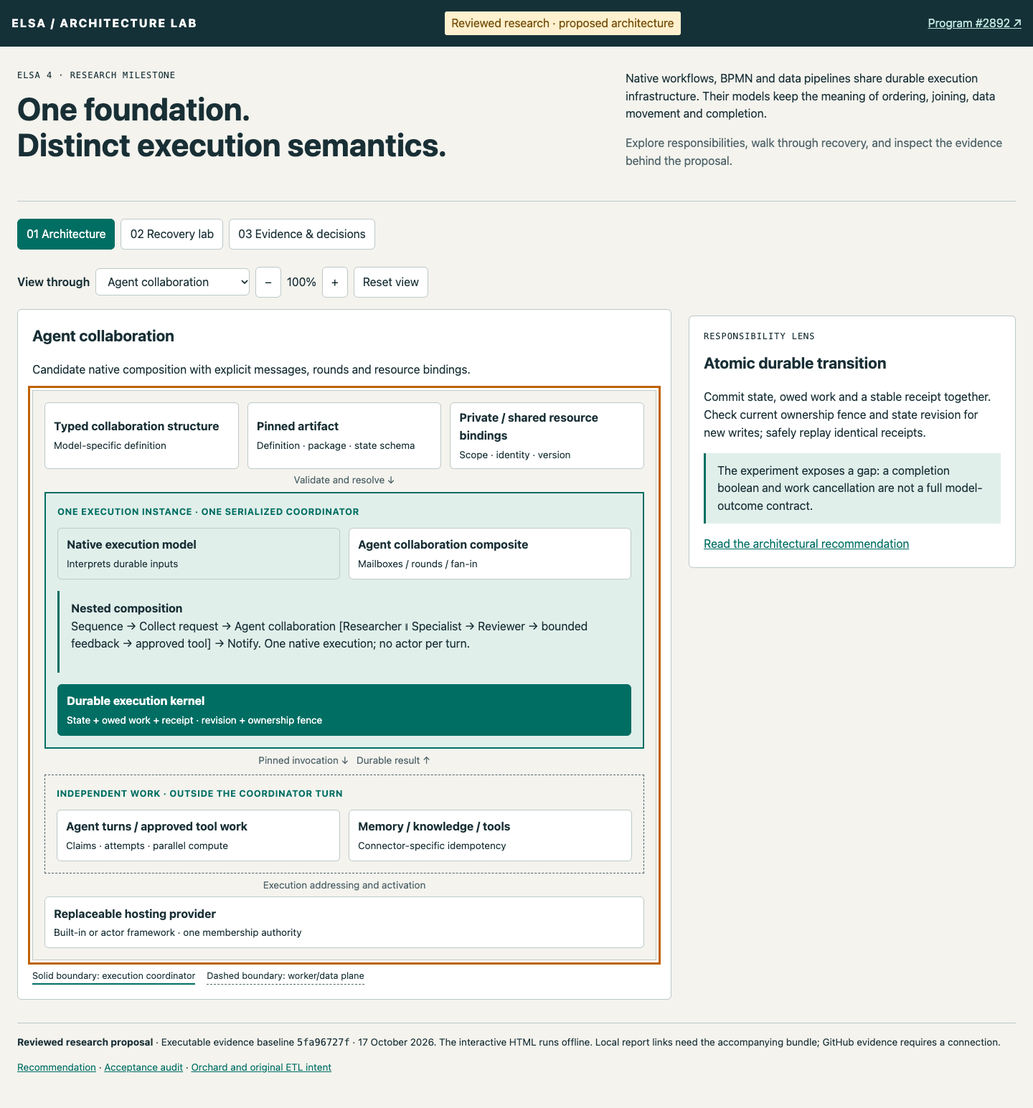
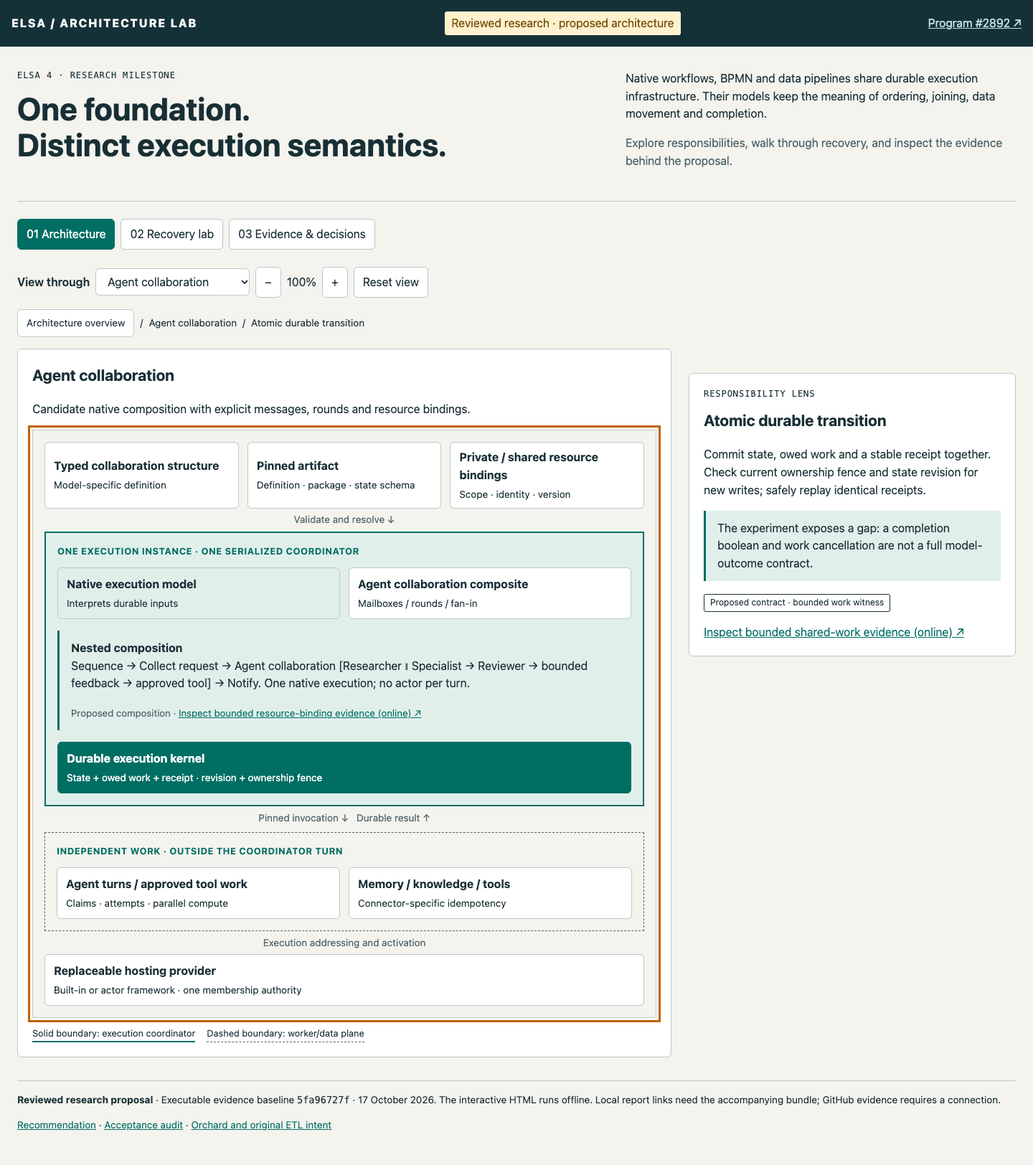
Complete architecture explorer navigation and normal execution walkthrough

diff --git a/docs/reports/unified-execution/presentation/index.html b/docs/reports/unified-execution/presentation/index.html
@@ -3,7 +3,7 @@
 <head><meta charset="utf-8"><meta name="viewport" content="width=device-width,initial-scale=1">
 <title>Elsa 4 · One foundation, distinct semantics</title>
 <style>
-:root{--paper:#f4f3ee;--ink:#182f35;--muted:#506469;--line:#bdc9c8;--surface:#fff;--accent:#006e63;--soft:#e1efeb;--warn:#77500b;--warm:#fff1cf;--dark:#153138;--radius:6px;--space:1rem}*{box-sizing:border-box}body{margin:0;background:var(--paper);color:var(--ink);font:16px/1.55 system-ui,-apple-system,sans-serif}a{color:var(--accent)}button,select,input{font:inherit;max-width:100%}button,select{border:1px solid var(--line);background:var(--surface);color:var(--ink);padding:.5rem .75rem;border-radius:var(--radius)}button{cursor:pointer}button:hover{background:var(--soft)}button[aria-pressed=true],button.primary{background:var(--accent);border-color:var(--accent);color:white}button:disabled{opacity:.45;cursor:default}:focus-visible{outline:3px solid #be6200;outline-offset:3px}h1,h2,h3,p{margin-top:0}h1{font-size:clamp(1.7rem,3.5vw,2.75rem);line-height:1.15;max-width:24ch}h2{font-size:1.35rem}h3{font-size:1rem}small,.muted{color:var(--muted)}.skip{position:absolute;left:1rem;top:-5rem;background:white;padding:.5rem;z-index:9}.skip:focus{top:1rem}.mast{background:var(--dark);color:#fff;padding:1rem max(1rem,calc((100vw - 1440px)/2));display:flex;align-items:center;gap:1rem;justify-content:space-between}.mast a{color:#bde4db}.brand{font-weight:750;letter-spacing:.12em}.tag{font:12px/1.4 ui-monospace,monospace;letter-spacing:.08em;text-transform:uppercase}.draft{background:var(--warm);color:var(--warn);padding:.25rem .6rem;border-radius:3px}main{max-width:1440px;margin:auto;padding:2rem 1.5rem}header.intro{display:grid;grid-template-columns:1.5fr 1fr;gap:2rem;border-bottom:1px solid var(--line);padding-bottom:1.5rem;margin-bottom:1.5rem}.intro p{max-width:62ch}.tabs,.toolbar{display:flex;flex-wrap:wrap;gap:.5rem;align-items:center}.tabs{margin-bottom:1.5rem}.panel{display:none}.panel.active{display:block}.split{display:grid;grid-template-columns:minmax(0,2fr) minmax(260px,1fr);gap:1.5rem}.sheet{min-width:0;background:var(--surface);border:1px solid var(--line);border-radius:var(--radius);padding:1.25rem}.toolbar{margin-bottom:1rem}.toolbar label{font-weight:600}.diagram-scroll{overflow:auto;border:1px solid var(--line);background:var(--paper);padding:1rem}.diagram{min-width:630px;transform-origin:top left}.model-row{display:grid;grid-template-columns:repeat(3,1fr);gap:.75rem}.node{text-align:left;display:block;width:100%;min-height:4.5rem}.node strong,.node span{display:block}.node span{font-size:.85rem;margin-top:.25rem}.arrow{text-align:center;color:var(--muted);padding:.35rem;font-size:.85rem}.actor{border:2px solid var(--accent);padding:1rem;background:var(--soft)}.boundary{font-size:.8rem;letter-spacing:.04em;font-weight:700;color:var(--accent);margin-bottom:.75rem}.inside{display:grid;grid-template-columns:1fr 1fr;gap:.75rem}.kernel{margin-top:.75rem}.worker-row{display:grid;grid-template-columns:1fr 1fr;gap:.75rem}.outside{border:1px dashed var(--muted);padding:1rem;margin-top:.25rem}.legend{display:flex;gap:1rem;flex-wrap:wrap;margin-top:.75rem;font-size:.8rem}.line-key{border-bottom:2px solid var(--accent)}.dash-key{border-bottom:1px dashed var(--muted)}.detail{position:sticky;top:1rem;align-self:start}.detail ul{padding-left:1.2rem}.note{border-left:3px solid var(--accent);padding:.75rem 1rem;background:var(--soft);margin:1rem 0}.caution{border-left-color:var(--warn);background:var(--warm)}.pill{display:inline-block;font-size:.75rem;padding:.15rem .5rem;border:1px solid currentColor;border-radius:3px}.sim-grid{display:grid;grid-template-columns:1fr 1fr;gap:1rem;margin:1rem 0}.metric{padding:1rem;border:1px solid var(--line)}.metric span{display:block;font:1.15rem ui-monospace,monospace;margin-top:.5rem}.timeline{padding-left:1.5rem}.timeline li{padding:.5rem;border-left:2px solid var(--line);margin-bottom:.3rem}.timeline li.current{border-left-color:var(--accent);background:var(--soft);font-weight:650}.timeline li.future{color:var(--muted)}table{width:100%;border-collapse:collapse}th,td{text-align:left;vertical-align:top;border-bottom:1px solid var(--line);padding:.75rem}th{font-size:.8rem;text-transform:uppercase;letter-spacing:.04em}.table-wrap{overflow:auto}footer{border-top:1px solid var(--line);margin-top:2rem;padding-top:1rem;font-size:.85rem}.hidden{display:none!important}details{border-bottom:1px solid var(--line);padding:1rem 0}summary{cursor:pointer;font-weight:650}.full-width{grid-column:1/-1}@media(max-width:800px){header.intro,.split{grid-template-columns:minmax(0,1fr)}.detail{position:static}.mast{flex-wrap:wrap}main{padding:1rem}.sim-grid{grid-template-columns:1fr}.toolbar{align-items:flex-start}}@media(prefers-reduced-motion:reduce){*{scroll-behavior:auto!important;transition:none!important;animation:none!important}}@media print{.panel{display:block}.tabs,.toolbar{display:none}.split{display:block}.detail{position:static}.diagram-scroll{overflow:visible}.sheet{break-inside:avoid}body{background:white}}
+:root{--paper:#f4f3ee;--ink:#182f35;--muted:#506469;--line:#bdc9c8;--surface:#fff;--accent:#006e63;--soft:#e1efeb;--warn:#77500b;--warm:#fff1cf;--dark:#153138;--radius:6px;--space:1rem}*{box-sizing:border-box}body{margin:0;background:var(--paper);color:var(--ink);font:16px/1.55 system-ui,-apple-system,sans-serif}a{color:var(--accent)}button,select,input{font:inherit;max-width:100%}button,select{border:1px solid var(--line);background:var(--surface);color:var(--ink);padding:.5rem .75rem;border-radius:var(--radius)}button{cursor:pointer}button:hover{background:var(--soft)}button[aria-pressed=true],button.primary{background:var(--accent);border-color:var(--accent);color:white}button:disabled{opacity:.45;cursor:default}:focus-visible{outline:3px solid #be6200;outline-offset:3px}h1,h2,h3,p{margin-top:0}h1{font-size:clamp(1.7rem,3.5vw,2.75rem);line-height:1.15;max-width:24ch}h2{font-size:1.35rem}h3{font-size:1rem}small,.muted{color:var(--muted)}.skip{position:absolute;left:1rem;top:-5rem;background:white;padding:.5rem;z-index:9}.skip:focus{top:1rem}.mast{background:var(--dark);color:#fff;padding:1rem max(1rem,calc((100vw - 1440px)/2));display:flex;align-items:center;gap:1rem;justify-content:space-between}.mast a{color:#bde4db}.brand{font-weight:750;letter-spacing:.12em}.tag{font:12px/1.4 ui-monospace,monospace;letter-spacing:.08em;text-transform:uppercase}.draft{background:var(--warm);color:var(--warn);padding:.25rem .6rem;border-radius:3px}main{max-width:1440px;margin:auto;padding:2rem 1.5rem}header.intro{display:grid;grid-template-columns:1.5fr 1fr;gap:2rem;border-bottom:1px solid var(--line);padding-bottom:1.5rem;margin-bottom:1.5rem}.intro p{max-width:62ch}.tabs,.toolbar{display:flex;flex-wrap:wrap;gap:.5rem;align-items:center}.tabs{margin-bottom:1.5rem}.panel{display:none}.panel.active{display:block}.split{display:grid;grid-template-columns:minmax(0,2fr) minmax(260px,1fr);gap:1.5rem}.sheet{min-width:0;background:var(--surface);border:1px solid var(--line);border-radius:var(--radius);padding:1.25rem}.toolbar{margin-bottom:1rem}.breadcrumbs{display:flex;flex-wrap:wrap;align-items:center;gap:.5rem;margin-bottom:1rem;font-size:.85rem}.breadcrumbs button{font-size:inherit}.toolbar label{font-weight:600}.diagram-scroll{overflow:auto;border:1px solid var(--line);background:var(--paper);padding:1rem}.diagram{min-width:630px;transform-origin:top left}.model-row{display:grid;grid-template-columns:repeat(3,1fr);gap:.75rem}.node{text-align:left;display:block;width:100%;min-height:4.5rem}.node strong,.node span{display:block}.node span{font-size:.85rem;margin-top:.25rem}.arrow{text-align:center;color:var(--muted);padding:.35rem;font-size:.85rem}.actor{border:2px solid var(--accent);padding:1rem;background:var(--soft)}.boundary{font-size:.8rem;letter-spacing:.04em;font-weight:700;color:var(--accent);margin-bottom:.75rem}.inside{display:grid;grid-template-columns:1fr 1fr;gap:.75rem}.kernel{margin-top:.75rem}.worker-row{display:grid;grid-template-columns:1fr 1fr;gap:.75rem}.outside{border:1px dashed var(--muted);padding:1rem;margin-top:.25rem}.legend{display:flex;gap:1rem;flex-wrap:wrap;margin-top:.75rem;font-size:.8rem}.line-key{border-bottom:2px solid var(--accent)}.dash-key{border-bottom:1px dashed var(--muted)}.detail{position:sticky;top:1rem;align-self:start}.detail ul{padding-left:1.2rem}.note{border-left:3px solid var(--accent);padding:.75rem 1rem;background:var(--soft);margin:1rem 0}.caution{border-left-color:var(--warn);background:var(--warm)}.pill{display:inline-block;font-size:.75rem;padding:.15rem .5rem;border:1px solid currentColor;border-radius:3px}.sim-grid{display:grid;grid-template-columns:1fr 1fr;gap:1rem;margin:1rem 0}.metric{padding:1rem;border:1px solid var(--line)}.metric span{display:block;font:1.15rem ui-monospace,monospace;margin-top:.5rem}.timeline{padding-left:1.5rem}.timeline li{padding:.5rem;border-left:2px solid var(--line);margin-bottom:.3rem}.timeline li.current{border-left-color:var(--accent);background:var(--soft);font-weight:650}.timeline li.future{color:var(--muted)}table{width:100%;border-collapse:collapse}th,td{text-align:left;vertical-align:top;border-bottom:1px solid var(--line);padding:.75rem}th{font-size:.8rem;text-transform:uppercase;letter-spacing:.04em}.table-wrap{overflow:auto}footer{border-top:1px solid var(--line);margin-top:2rem;padding-top:1rem;font-size:.85rem}.hidden{display:none!important}details{border-bottom:1px solid var(--line);padding:1rem 0}summary{cursor:pointer;font-weight:650}.full-width{grid-column:1/-1}@media(max-width:800px){header.intro,.split{grid-template-columns:minmax(0,1fr)}.detail{position:static}.mast{flex-wrap:wrap}main{padding:1rem}.sim-grid{grid-template-columns:1fr}.toolbar{align-items:flex-start}}@media(prefers-reduced-motion:reduce){*{scroll-behavior:auto!important;transition:none!important;animation:none!important}}@media print{.panel{display:block}.tabs,.toolbar{display:none}.split{display:block}.detail{position:static}.diagram-scroll{overflow:visible}.sheet{break-inside:avoid}body{background:white}}
 </style></head>
 <body><a class="skip" href="#content">Skip to architecture</a>
 <div class="mast"><span class="brand">ELSA / ARCHITECTURE LAB</span><span class="draft">Reviewed research · proposed architecture</span><a href="https://github.com/elsa-workflows/elsa-foundation/issues/2892">Program #2892 ↗</a></div>
@@ -11,17 +11,18 @@
 <nav class="tabs" aria-label="Presentation views"><button data-tab="architecture" aria-pressed="true">01 Architecture</button><button data-tab="recovery" aria-pressed="false">02 Recovery lab</button><button data-tab="evidence" aria-pressed="false">03 Evidence & decisions</button></nav>
 <section id="architecture" class="panel active" aria-label="Architecture explorer">
 <div class="toolbar"><label for="model">View through</label><select id="model"><option value="native">Native workflow</option><option value="bpmn">BPMN process</option><option value="etl">ETL pipeline</option><option value="agent">Agent collaboration</option><option value="rules">Independent rule model</option></select><button id="zoom-out" aria-label="Zoom diagram out">−</button><output id="zoom-value" aria-live="polite">100%</output><button id="zoom-in" aria-label="Zoom diagram in">+</button><button id="zoom-reset">Reset view</button></div>
+<nav class="breadcrumbs" aria-label="Diagram breadcrumbs"><button id="architecture-overview">Architecture overview</button><span aria-hidden="true">/</span><span id="breadcrumb-model">Native workflow</span><span aria-hidden="true">/</span><span id="breadcrumb-detail" aria-current="location">Overview</span></nav>
 <div class="split"><div class="sheet"><h2 id="model-heading">Native workflow</h2><p id="model-caption">Sequence and Flowchart share hosting, not control semantics.</p>
 <div class="diagram-scroll" role="region" tabindex="0" aria-label="Scrollable architecture diagram"><div class="diagram" id="diagram">
 <div class="model-row"><button class="node" data-detail="language"><strong id="language-name">Authoring language</strong><span>Model-specific definition</span></button><button class="node" data-detail="artifact"><strong>Pinned artifact</strong><span>Definition · package · state schema</span></button><button class="node" data-detail="resources"><strong id="resource-name">Data & resource bindings</strong><span>Scope · identity · version</span></button></div>
 <div class="arrow">Validate and resolve ↓</div>
-<div class="actor"><div class="boundary">ONE EXECUTION INSTANCE · ONE SERIALIZED COORDINATOR</div><div class="inside"><button class="node" data-detail="semantics"><strong id="semantics-name">Native execution model</strong><span>Interprets durable inputs</span></button><button class="node" data-detail="composition"><strong id="composition-name">Sequence / Flowchart</strong><span id="composition-copy">Ordering / joins belong here</span></button></div><div class="note" id="nested-composition"><strong>Nested composition</strong><p id="nested-copy"></p></div><button class="node kernel" data-detail="kernel"><strong>Durable execution kernel</strong><span>State + owed work + receipt · revision + ownership fence</span></button></div>
+<div class="actor"><div class="boundary">ONE EXECUTION INSTANCE · ONE SERIALIZED COORDINATOR</div><div class="inside"><button class="node" data-detail="semantics"><strong id="semantics-name">Native execution model</strong><span>Interprets durable inputs</span></button><button class="node" data-detail="composition"><strong id="composition-name">Sequence / Flowchart</strong><span id="composition-copy">Ordering / joins belong here</span></button></div><div class="note" id="nested-composition"><strong>Nested composition</strong><p id="nested-copy"></p><small>Proposed composition · <a id="nested-link" href="../architecture-recommendation.md">Read the recommendation</a></small></div><button class="node kernel" data-detail="kernel"><strong>Durable execution kernel</strong><span>State + owed work + receipt · revision + ownership fence</span></button></div>
 <div class="arrow">Pinned invocation ↓ &nbsp; Durable result ↑</div><div class="outside"><div class="boundary">INDEPENDENT WORK · OUTSIDE THE COORDINATOR TURN</div><div class="worker-row"><button class="node" data-detail="workers"><strong id="worker-name">Background activity workers</strong><span>Claims · attempts · parallel compute</span></button><button class="node" data-detail="effects"><strong id="effect-name">External effects / data</strong><span>Connector-specific idempotency</span></button></div></div>
 <div class="arrow">Execution addressing and activation</div><button class="node" data-detail="hosting"><strong>Replaceable hosting provider</strong><span>Built-in or actor framework · one membership authority</span></button></div></div>
 <div class="legend"><span class="line-key">Solid boundary: execution coordinator</span><span class="dash-key">Dashed boundary: worker/data plane</span></div></div>
-<aside class="sheet detail" aria-live="polite"><p class="tag">Responsibility lens</p><h2 id="detail-title">Select a boundary</h2><p id="detail-body">Choose any box to inspect its responsibility and its limits.</p><div id="detail-note" class="note">Activities, tokens and partitions are not automatically actors. The actor boundary is the execution instance.</div><a id="detail-link" href="../architecture-recommendation.md">Read the architectural recommendation</a></aside></div>
+<aside class="sheet detail" aria-live="polite"><p class="tag">Responsibility lens</p><h2 id="detail-title">Select a boundary</h2><p id="detail-body">Choose any box to inspect its responsibility and its limits.</p><div id="detail-note" class="note">Activities, tokens and partitions are not automatically actors. The actor boundary is the execution instance.</div><p><span id="detail-status" class="pill">Proposed architecture</span></p><a id="detail-link" href="../architecture-recommendation.md">Read the architectural recommendation</a></aside></div>
 </section>
-<section id="recovery" class="panel" aria-label="Recovery walkthrough"><div class="note caution"><strong>Illustrative simulation.</strong> These controls explain proposed contracts; they do not run Elsa or the experiments. Executed evidence is linked separately.</div><div class="toolbar"><label for="scenario">Failure scenario</label><select id="scenario"><option value="crash">Crash and reclaim</option><option value="duplicate">Duplicate result</option><option value="cancel">Cancellation wins</option><option value="success">Success wins cancellation race</option><option value="buffer">ETL backpressure</option></select><button id="previous">Previous</button><button id="next" class="primary">Next transition</button><button id="restart">Restart</button></div><div class="split"><div class="sheet"><h2 id="scenario-title">Crash and reclaim</h2><div class="sim-grid"><div class="metric">Coordinator owner / fence<span id="owner-value"></span></div><div class="metric">Authoritative work state<span id="work-value"></span></div><div class="metric">External effects<span id="effect-value"></span></div><div class="metric">Model / component<span id="component-value"></span></div></div><p id="step-caption" class="note" aria-live="polite"></p><p class="muted" id="scenario-limit"></p></div><aside class="sheet"><h2>Transition ledger</h2><ol class="timeline" id="timeline"></ol><p><a href="https://github.com/elsa-workflows/elsa-foundation/blob/f4c70e765243f0d20c5e64a1c8bc4b36a7a39e8a/tools/experiments/UnifiedExecution.WorkProof/evidence.json">Inspect executed work evidence ↗</a></p></aside></div></section>
+<section id="recovery" class="panel" aria-label="Recovery walkthrough"><div class="note caution"><strong>Illustrative simulation.</strong> These controls explain proposed contracts; they do not run Elsa or the experiments. Executed evidence is linked separately.</div><div class="toolbar"><label for="scenario">Execution scenario</label><select id="scenario"><option value="normal">Normal execution</option><option value="crash">Crash and reclaim</option><option value="duplicate">Duplicate result</option><option value="cancel">Cancellation wins</option><option value="success">Success wins cancellation race</option><option value="buffer">ETL backpressure</option></select><button id="previous">Previous</button><button id="next" class="primary">Next transition</button><button id="restart">Restart</button></div><div class="split"><div class="sheet"><h2 id="scenario-title">Normal execution</h2><div class="sim-grid"><div class="metric">Coordinator owner / fence<span id="owner-value"></span></div><div class="metric">Authoritative work state<span id="work-value"></span></div><div class="metric">External effects<span id="effect-value"></span></div><div class="metric">Model / component<span id="component-value"></span></div></div><p id="step-caption" class="note" aria-live="polite"></p><p class="muted" id="scenario-limit"></p></div><aside class="sheet"><h2>Transition ledger</h2><ol class="timeline" id="timeline"></ol><p><a href="https://github.com/elsa-workflows/elsa-foundation/blob/f4c70e765243f0d20c5e64a1c8bc4b36a7a39e8a/tools/experiments/UnifiedExecution.WorkProof/evidence.json">Inspect executed work evidence ↗</a></p></aside></div></section>
 <section id="evidence" class="panel" aria-label="Evidence and decisions"><div class="sheet"><h2>Evidence is scoped</h2><p>The experiments validate boundaries with local processes and durable SQLite state. They are not a production migration or a general claim of BPMN conformance.</p><div class="table-wrap"><table><thead><tr><th>Witness</th><th>Current result</th><th>What remains</th></tr></thead><tbody>
 <tr><td><a href="https://github.com/elsa-workflows/elsa-foundation/issues/2896">Shared activity / ETL work</a></td><td>111 assertions · 43 process identities · reviewed</td><td>Production EF integration; byte budgets; multi-host reservation policy</td></tr>
 <tr><td><a href="https://github.com/elsa-workflows/elsa-foundation/issues/2898">Real BPMN hosting</a></td><td>Real interpreter + pipeline recovery verified</td><td>Separate stores; no atomic handoff; model cancellation and alteration remain open</td></tr>
@@ -56,16 +57,28 @@ kernel:['Atomic durable transition','Commit state, owed work and a stable receip
 workers:['Independent worker compute','Workers claim a pinned invocation and input snapshot. They can overlap while the execution coordinator serializes semantic decisions.','Retries are at least once. Accepted worker results are inputs to the model, not permission to finish the root.'],
 effects:['Effects and data','Connectors own destination idempotency and any stronger consistency guarantees. ETL admission bounds work before source reads.','A rejected stale result does not undo an external write. Lease expiry alone does not prove a stalled worker released its buffer.'],
 hosting:['Replaceable execution hosting','A stable scoped execution address resolves to an activation. A provider can supply routing, placement and membership while durable state remains authoritative.','One membership view, one execution boundary. Framework delivery is not the durable record of owed work.']};
+const proofRoot='https://github.com/elsa-workflows/elsa-foundation/blob/4b464e1637483e89a11f632f2c99c5779cb4e0de/tools/experiments/';
+const sources={
+proposal:['Proposed architecture','../architecture-recommendation.md','Read the architectural recommendation'],
+work:['Proposed contract · bounded work witness',proofRoot+'UnifiedExecution.WorkProof/evidence.json','Inspect bounded shared-work evidence (online) ↗'],
+artifact:['Proposed contract · bounded package witness',proofRoot+'UnifiedExecution.RuleModelProof/evidence/proof.json','Inspect bounded artifact-pin evidence (online) ↗'],
+resources:['Proposed contract · bounded agent witness',proofRoot+'AgentCompositionProof/evidence.json','Inspect bounded resource-binding evidence (online) ↗'],
+bpmn:['Proposed contract · bounded BPMN witness',proofRoot+'UnifiedExecution.BpmnProof/README.md','Inspect bounded BPMN hosting evidence (online) ↗'],
+hosting:['Proposed contract · local provider witness',proofRoot+'UnifiedExecution.ProviderProbe/evidence/provider-proof.json','Inspect local provider evidence (online) ↗']};
+const modelSources={native:'work',bpmn:'bpmn',etl:'work',agent:'resources',rules:'artifact'};
+const detailSources={language:'proposal',artifact:'artifact',resources:'resources',semantics:'proposal',composition:'proposal',kernel:'work',workers:'work',effects:'work',hosting:'hosting'};
 let chosen='kernel',zoom=100;
-function showDetail(key){chosen=key;const d=detail[key];$('detail-title').textContent=d[0];$('detail-body').textContent=d[1];$('detail-note').textContent=d[2];document.querySelectorAll('[data-detail]').forEach(b=>b.setAttribute('aria-pressed',String(b.dataset.detail===key)));}
+function showDetail(key){chosen=key;const d=detail[key],source=sources[detailSources[key]];$('breadcrumb-detail').textContent=d[0];$('detail-status').textContent=source[0];$('detail-link').href=source[1];$('detail-link').textContent=source[2];$('detail-title').textContent=d[0];$('detail-body').textContent=d[1];$('detail-note').textContent=d[2];document.querySelectorAll('[data-detail]').forEach(b=>b.setAttribute('aria-pressed',String(b.dataset.detail===key)));}
 const nested={native:'Sequence → Prepare → Flowchart [A ∥ B → join] → Notify. Sequence advances only when its Flowchart child reports completion; the join stays inside Flowchart.',bpmn:'BPMN process → service task → child ETL execution → correlated outcome. BPMN owns gateway and boundary-event semantics; the child owns partition completion.',etl:'Pipeline run → partitions A and B → bounded batch invocations. Source → transform → destination carries records outside the actor; cursor receipts return to the coordinator.',agent:'Sequence → Collect request → Agent collaboration [Researcher ∥ Specialist → Reviewer → bounded feedback → approved tool] → Notify. One native execution; no actor per turn.',rules:'Rule execution → inference rounds → fixed point. Facts and rule derivations form the model state; there is no activity graph or Flowchart join.'};
-function renderModel(){const m=models[$('model').value];$('nested-copy').textContent=nested[$('model').value];['model-heading','model-caption','language-name','semantics-name','composition-name','composition-copy','worker-name','effect-name','resource-name'].forEach((id,i)=>$(id).textContent=m[i]);showDetail(chosen);}
+function renderModel(){const m=models[$('model').value];$('breadcrumb-model').textContent=m[0];const source=sources[modelSources[$('model').value]];$('nested-link').href=source[1];$('nested-link').textContent=source[2];$('nested-copy').textContent=nested[$('model').value];['model-heading','model-caption','language-name','semantics-name','composition-name','composition-copy','worker-name','effect-name','resource-name'].forEach((id,i)=>$(id).textContent=m[i]);showDetail(chosen);}
 document.querySelectorAll('[data-detail]').forEach(b=>b.addEventListener('click',()=>showDetail(b.dataset.detail)));
 $('model').addEventListener('change',renderModel);
 function setZoom(value){zoom=Math.max(75,Math.min(175,value));$('diagram').style.zoom=String(zoom/100);$('zoom-value').textContent=zoom+'%';$('zoom-out').disabled=zoom===75;$('zoom-in').disabled=zoom===175;}
+$('architecture-overview').onclick=()=>{$('model').value='native';chosen='kernel';renderModel();setZoom(100);document.querySelector('.diagram-scroll').scrollTo(0,0);};
 $('zoom-in').onclick=()=>setZoom(zoom+25);$('zoom-out').onclick=()=>setZoom(zoom-25);$('zoom-reset').onclick=()=>setZoom(100);
 document.querySelectorAll('[data-tab]').forEach(b=>b.addEventListener('click',()=>{document.querySelectorAll('[data-tab]').forEach(x=>x.setAttribute('aria-pressed',String(x===b)));document.querySelectorAll('.panel').forEach(p=>p.classList.toggle('active',p.id===b.dataset.tab));}));
 const scenarios={
+normal:{title:'Normal execution',limit:'Illustrative normal path: retries and physical external effects remain at least once unless the connector provides stronger guarantees. The model or component decides continuation and completion; a worker result alone does not finish the execution.',steps:[['Owe work atomically','Owner / fence 1','Owed with pinned input','None','Waiting for result'],['Worker executes invocation','Owner / fence 1','Claimed','Connector applies work','No semantic advance'],['Record durable result','Owner / fence 1','Result durable','Accepted; may need dedupe','Result not yet applied'],['Model consumes result','Owner / fence 1','Receipt consumed','Unchanged','Next step or explicit completion']]},
 crash:{title:'Crash and reclaim',limit:'A new owner rejects stale new writes. An identical previously committed request may still replay its receipt. External destination idempotency is separate.',steps:[['Owe work atomically','Node A / fence 1','Owed','None','Waiting for result'],['Worker commits result','Node A / fence 1','Result durable','Destination accepted key','Result not yet applied'],['Coordinator crashes','Unavailable / fence 1','Result still durable','Unchanged','No semantic advance'],['Replacement acquires execution','Node B / fence 2','Pending result recovered','Unchanged','Reconstruct from state'],['Old owner attempts new commit','Node B / fence 2','Stale write rejected','Unchanged','Fence protects state'],['Component consumes result','Node B / fence 2','Result consumed once','Unchanged','Next step or explicit completion']]},
 duplicate:{title:'Duplicate result',limit:'This simulation shows receipt identity. Distinct messages from the same sender are not necessarily duplicates.',steps:[['Accept first result','Owner / fence 1','Receipt R accepted','One logical effect','Result pending'],['Repeat identical result','Owner / fence 1','Return existing receipt R','Destination dedupe needed','No second result event'],['Reuse identity with changed content','Owner / fence 1','Conflict rejected','No rollback implied','Accepted data unchanged'],['Apply semantic transition','Owner / fence 1','Receipt consumed','Unchanged','One successor / join decision']]},
 cancel:{title:'Cancellation wins',limit:'Verified work-level cancellation prevents successor dispatch. Model-level termination and already-delivered effects need explicit semantic contracts.',steps:[['Work is active','Owner / fence 1','Claimed','May already be underway','Waiting'],['Cancellation accepted first','Owner / fence 1','Cancelled','No rollback guarantee','Cancellation outcome pending'],['Worker returns late success','Owner / fence 1','Late result rejected','Connector-specific','No success successor']]},

diff --git a/docs/reports/unified-execution/presentation/verification.md b/docs/reports/unified-execution/presentation/verification.md
@@ -2,24 +2,24 @@
 
 ## 19 October 2026 completion
 
-The historical research presentation from `4b464e1637483e89a11f632f2c99c5779cb4e0de` now has a verified standalone browser path. This update imports the report bundle into the documentation tree, adds an explicit named region for keyboard diagram scrolling, and records browser evidence. It does not rerun the engine experiments or update their 17 October evidence baseline (`5fa96727f`). Current production status remains in [Program #2892](https://github.com/elsa-workflows/elsa-foundation/issues/2892).
+The historical research presentation from `4b464e1637483e89a11f632f2c99c5779cb4e0de` now has a verified standalone browser path. This update imports the report bundle into the documentation tree, adds named keyboard scrolling, breadcrumbs, a normal-execution scenario and per-detail evidence links, and records browser evidence. It does not rerun the engine experiments or update their 17 October evidence baseline (`5fa96727f`). Current production status remains in [Program #2892](https://github.com/elsa-workflows/elsa-foundation/issues/2892).
 
 Root ran [verify.cjs](verify.cjs) using Playwright 1.62.1 and installed Google Chrome 155.0.8059.82 in a new isolated headless profile on macOS. The context was offline **before** its first direct `file:` navigation, with reduced motion enabled; no existing signed-in browser profile was used. The prior in-app browser only accepted HTTP/HTTPS URLs. This run uses Chrome's supported local-file navigation without changing that tool's policy or disabling browser security.
 
[2 lines of base64/hex data omitted]
 
 - Cold direct-file loading and reload work while `navigator.onLine` is false.
-- All five model lenses and all nine responsibility controls update their heading, nested-composition text, selected state and details.
+- All five model lenses and all nine responsibility controls update their heading, nested-composition text, selected state and details. Each detail labels the architecture as proposed and links either to the recommendation or a pinned, bounded witness. Each model’s nested-composition example also has its own proposed label and source, independent of the selected detail. Breadcrumbs track the current model and detail; the keyboard-accessible overview button restores the Native/kernel view, zoom and scroll position.
 - Diagram zoom changes computed CSS zoom, stops at 75%/175%, and resets to 100%.
 - Tab navigation reaches the skip link and view controls; Enter activates the Recovery view. The diagram exposes the accessible region name **Scrollable architecture diagram** and ArrowRight scrolls it at narrow width.
-- All five recovery scenarios advance through every step. Previous, Restart and terminal disabled states work; the timeline exposes exactly one current step.
+- All six execution scenarios (normal execution, crash/reclaim, duplicate result, both cancellation orderings and ETL backpressure) advance through every step. Previous, Restart and terminal disabled states work; the timeline exposes exactly one current step.
 - At 320, 768, 1024 and 1440 pixels, body width does not exceed the viewport. Diagram overflow remains inside its own scroll region.
 - Reduced-motion emulation matches the media query. Computed animation, transition and smooth-scrolling states are disabled.
 - The three local Markdown report links open offline when the accompanying report bundle is present. GitHub evidence links intentionally need a connection; external evidence is not cached or mirrored by this artifact.
 - With JavaScript disabled, the native diagram and explicit static overview remain visible.
 - Historical research and simulation labels remain visible. Browser interactions do not execute Elsa or establish new engine guarantees.
 
-Independent source review identified the missing explicit role on the focusable diagram container. A browser assertion for its named region failed on the original HTML (`0 != 1`) and passed after adding `role="region"`. Root inspected the rendered screenshot and reran the full focused browser script after the correction. The offline claim is now supported by the recorded run, and the footer distinguishes standalone HTML from the accompanying reports.
+Independent source review identified the missing explicit role on the focusable diagram container. A browser assertion for its named region failed on the original HTML (`0 != 1`) and passed after adding `role="region"`. Root inspected the rendered screenshot and reran the full focused browser script after the correction. A subsequent audit against the full program brief found that breadcrumbs and an explicit normal-execution path were missing. Both controls failed their baseline presence checks; [the pre-correction result](evidence/acceptance-controls-before.json) retains the previous HTML hash. The final browser run covers the added controls, all six scenarios and proposed-status/source links for all nine details under every model lens. The offline claim is now supported by the recorded run, and the footer distinguishes standalone HTML from the accompanying reports.
 
 This is browser-offline verification, not a physically disconnected machine experiment or screen-reader certification. It does not claim cross-browser qualification. The isolated test tooling requires Playwright and Chrome, but the delivered HTML itself has no external assets or runtime dependency.
 
@@ -39,9 +39,9 @@ The in-app browser exercised the locally HTTP-served artifact, all five model le
 
 ## Presenter path
 
-1. Start with Native workflow: inspect the execution model, nested Sequence/Flowchart and kernel. Use the scrollable diagram for pan and the zoom controls for scale.
+1. Start with Native workflow: inspect the execution model, nested Sequence/Flowchart and kernel. Use the scrollable diagram for pan, zoom controls for scale and breadcrumbs to return to the overview.
 2. Switch to ETL: distinguish partition work and record movement from serial coordinator decisions.
 3. Switch to BPMN: show the interpreter as semantic owner and the pipeline as a correlated child.
 4. Switch to Agent collaboration: distinguish message/round semantics from memory/knowledge/tool bindings.
 5. Switch to Independent rule model: show extensibility beyond an activity graph.
-6. Walk through crash/reclaim and cancellation in the Recovery lab, then use Evidence & decisions to discuss the historical evidence, its limits and the current program link.
+6. Walk through normal execution, then crash/reclaim and cancellation in the Recovery lab, then use Evidence & decisions to discuss the historical evidence, its limits and the current program link.

diff --git a/docs/reports/unified-execution/README.md b/docs/reports/unified-execution/README.md
@@ -24,7 +24,7 @@ Authoritative program: [Foundation #2892](https://github.com/elsa-workflows/elsa
 | Independent model #2901 | [Rule-model proof README](https://github.com/elsa-workflows/elsa-foundation/blob/4b464e1637483e89a11f632f2c99c5779cb4e0de/tools/experiments/UnifiedExecution.RuleModelProof/README.md) and [model evidence](https://github.com/elsa-workflows/elsa-foundation/blob/4b464e1637483e89a11f632f2c99c5779cb4e0de/tools/experiments/UnifiedExecution.RuleModelProof/evidence/proof.json) | Root rerun passed 29 assertions after package-artifact loading and state-trace validation fixes. Bounded cross-review findings were addressed. No package authenticity policy or terminal model cancellation is proved. |
 | Agent collaboration #2913 | [Framework semantics probe](https://github.com/elsa-workflows/elsa-foundation/blob/4b464e1637483e89a11f632f2c99c5779cb4e0de/tools/experiments/UnifiedExecution.AgentFrameworkProbe/evidence.json) and [candidate composition evidence](https://github.com/elsa-workflows/elsa-foundation/blob/4b464e1637483e89a11f632f2c99c5779cb4e0de/tools/experiments/AgentCompositionProof/evidence.json) | Actual MAF package probes passed. Root rerun passed 142 native-composition assertions after budget admission and tool invocation fixes. Deterministic usage units; no live LLM guarantee. |
 | Architecture recommendation #2904 | [Working recommendation](architecture-recommendation.md) | Reviewed research recommendation with explicit accept/revise/reject dispositions, governance reconciliation and a proposed next spec slice; awaits owner ratification. |
-| Interactive HTML #2911 | [Open presentation](presentation/index.html) · [verification](presentation/verification.md) | Interactive model lenses and recovery simulations; real browser controls/responsive checks. 19 October isolated Chrome direct-file/offline and reduced-motion checks passed; see the verification record. |
+| Interactive HTML #2911 | [Open presentation](presentation/index.html) · [verification](presentation/verification.md) | Five model lenses, breadcrumb drill-down and six labeled execution simulations; scoped evidence links and real browser controls/responsive checks. 19 October isolated Chrome direct-file/offline and reduced-motion checks passed; see the verification record. |
 
 ## Candidate provider seam
 

diff --git a/docs/reports/unified-execution/acceptance-audit.md b/docs/reports/unified-execution/acceptance-audit.md
@@ -21,7 +21,7 @@
 | #2913 | Budget and route boundary review | Budget admission corrected before dispatch; 0–7 boundaries and durable budget-4 zero-pending-result check passed. Exact tool invocation negative test passed. Fixed units are not live token/cost bounds |
 | #2904 | Reviewed recommendation, dispositions and governance | Independent review completed; model/composition/provider boundaries and cancellation revision explicit. ADR 0031 amendment, proposed ADR 0063, EF and one membership authority preserved. BPMN kernel convergence remains an integration hypothesis |
 | #2904 | Next actionable production slice | Lifecycle/offload contract spec scenario, seams, acceptance, rollout and rollback defined under #2905; production implementation is not part of research completion |
-| #2911 | Interactive architecture and recovery explanation | Five model lenses, nested composition, actor/worker/data boundaries, zoom and five labeled simulations implemented; evidence links/revision retained |
+| #2911 | Interactive architecture and recovery explanation | Five model lenses, nested composition, actor/worker/data boundaries, zoom and five labeled simulations implemented in the original artifact. The 19 October acceptance pass adds breadcrumbs, a sixth normal-execution simulation and explicit proposed-status/scoped-source links; the historical evidence revision remains unchanged |
 | #2911 | Accessibility, responsive and standalone behavior | Real-browser keyboard controls and 320/768/1024/1440 checks passed. No external assets/network APIs/motion loops. Initial in-app direct-file run was blocked by URL policy. The 19 October follow-up verifies cold direct-file/offline loading, actual reduced-motion emulation, local report navigation and a named keyboard-scroll region in isolated Chrome; see presentation/verification.md |
 
 ## Remaining product obligations
